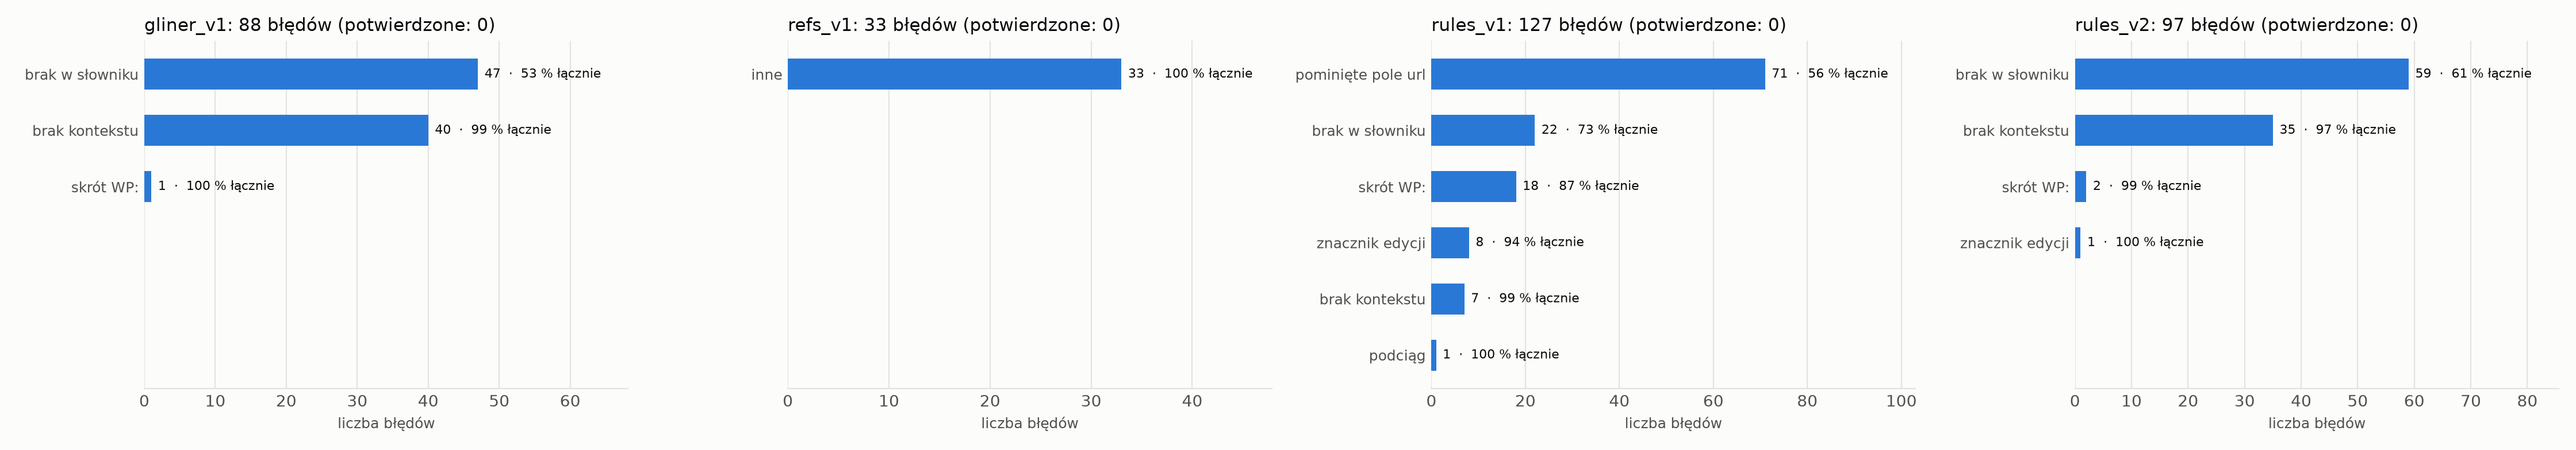
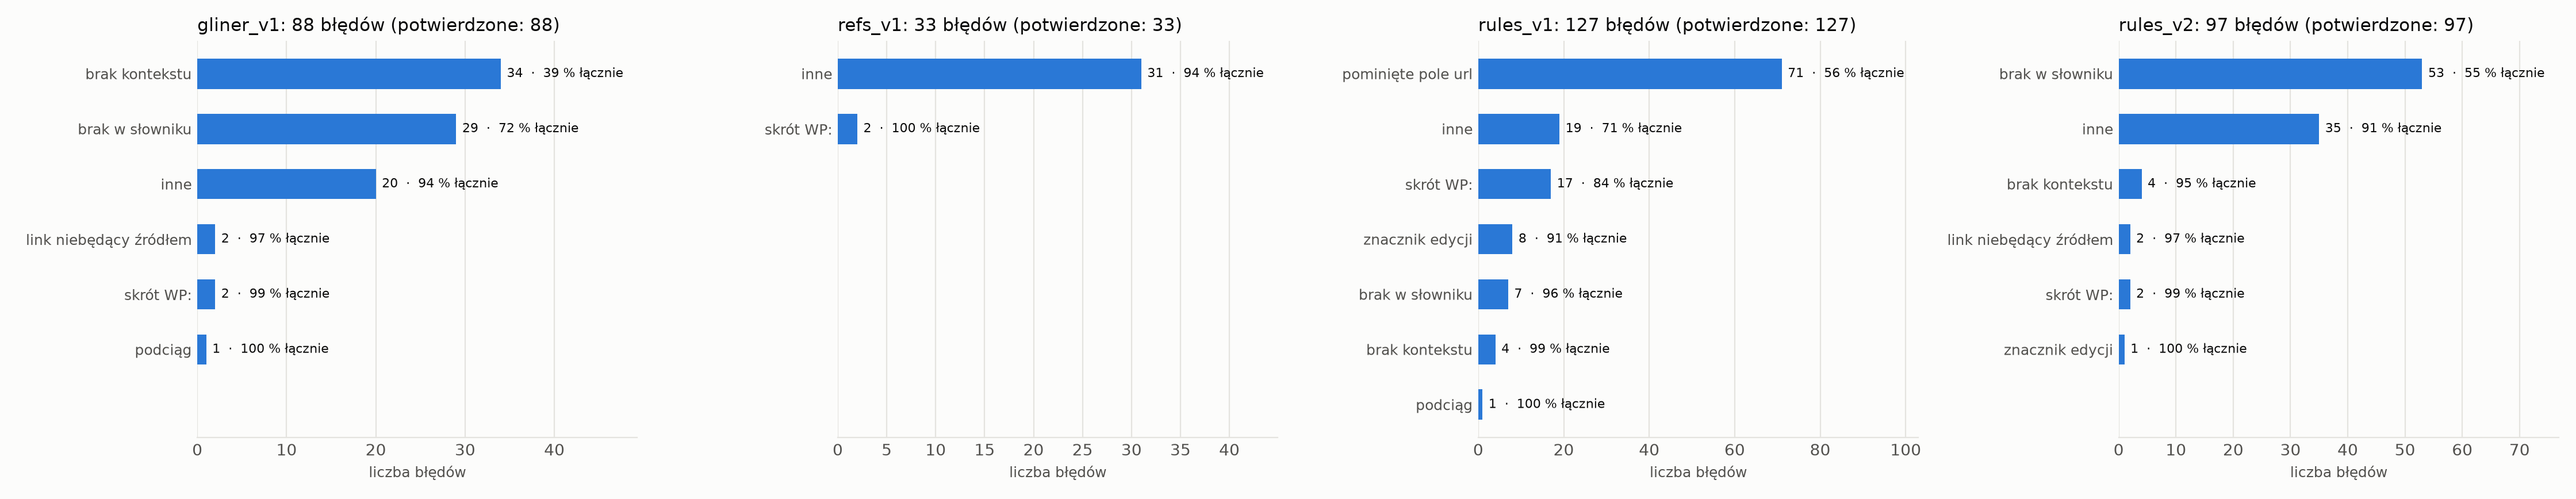
Runs the one-time stance_v1 test and the confirmatory analysis
- stance_v1 on the test half (frozen at 7ad9409): F1 challenges 0.33, kappa 0.24;
  validity gate not passed, so H1-A cannot be measured with this instrument.
- H1-B: consensus indicator J = 0.20 on the pooled audit, descriptive only;
  alternative indicator valid (J = 0.59), no increase (OR 0.988, p = 0.85).
- H2: OR 1.47 per year, p = 0.006 (one-sided), still to be read with the domain review.
- Report tables, numbers and figures refreshed.

diff --git a/report/numbers.tex b/report/numbers.tex
@@ -157,33 +157,33 @@
 \newcommand{\resHoneADevKappa}{0{,}33}
 \newcommand{\resHoneADevMacroF}{0{,}45}
 \newcommand{\resHoneADevAccuracy}{0{,}83}
-\newcommand{\resHoneATestPosts}{\resPending}
-\newcommand{\resHoneATestChallengesF}{\resPending}
-\newcommand{\resHoneATestKappa}{\resPending}
-\newcommand{\resHoneATestMacroF}{\resPending}
-\newcommand{\resHoneATestAccuracy}{\resPending}
-\newcommand{\resHoneAGate}{\resPending}
-\newcommand{\resHoneAThresholds}{\resPending}
-\newcommand{\resHoneAChallengesOr}{\resPending}
-\newcommand{\resHoneAChallengesP}{\resPending}
-\newcommand{\resHoneASupportsOr}{\resPending}
-\newcommand{\resHoneASupportsP}{\resPending}
-\newcommand{\resHoneAChallengesTwentyOr}{\resPending}
-\newcommand{\resHoneAChallengesTwentyP}{\resPending}
-\newcommand{\resHoneASupportsTwentyOr}{\resPending}
-\newcommand{\resHoneASupportsTwentyP}{\resPending}
-\newcommand{\resHoneAChallengesScienceOr}{\resPending}
-\newcommand{\resHoneAChallengesScienceP}{\resPending}
-\newcommand{\resHoneASupportsScienceOr}{\resPending}
-\newcommand{\resHoneASupportsScienceP}{\resPending}
-\newcommand{\resHoneAChallengesConspiracyOr}{\resPending}
-\newcommand{\resHoneAChallengesConspiracyP}{\resPending}
-\newcommand{\resHoneASupportsConspiracyOr}{\resPending}
-\newcommand{\resHoneASupportsConspiracyP}{\resPending}
-\newcommand{\resHoneARelevantPosts}{\resPending}
-\newcommand{\resHoneAChallengesShareEarly}{\resPending}
-\newcommand{\resHoneAChallengesShareLate}{\resPending}
-\newcommand{\resHoneAStatus}{czeka na kodowanie stanowiska}
+\newcommand{\resHoneATestPosts}{216}
+\newcommand{\resHoneATestChallengesF}{0{,}33}
+\newcommand{\resHoneATestKappa}{0{,}24}
+\newcommand{\resHoneATestMacroF}{0{,}44}
+\newcommand{\resHoneATestAccuracy}{0{,}80}
+\newcommand{\resHoneAGate}{niespełniony}
+\newcommand{\resHoneAThresholds}{relevance 0{,}30, supports 0{,}30, challenges 0{,}70}
+\newcommand{\resHoneAChallengesOr}{\textit{nie testowano}}
+\newcommand{\resHoneAChallengesP}{\textit{nie testowano}}
+\newcommand{\resHoneASupportsOr}{\textit{nie testowano}}
+\newcommand{\resHoneASupportsP}{\textit{nie testowano}}
+\newcommand{\resHoneAChallengesTwentyOr}{\textit{nie testowano}}
+\newcommand{\resHoneAChallengesTwentyP}{\textit{nie testowano}}
+\newcommand{\resHoneASupportsTwentyOr}{\textit{nie testowano}}
+\newcommand{\resHoneASupportsTwentyP}{\textit{nie testowano}}
+\newcommand{\resHoneAChallengesScienceOr}{\textit{nie testowano}}
+\newcommand{\resHoneAChallengesScienceP}{\textit{nie testowano}}
+\newcommand{\resHoneASupportsScienceOr}{\textit{nie testowano}}
+\newcommand{\resHoneASupportsScienceP}{\textit{nie testowano}}
+\newcommand{\resHoneAChallengesConspiracyOr}{\textit{nie testowano}}
+\newcommand{\resHoneAChallengesConspiracyP}{\textit{nie testowano}}
+\newcommand{\resHoneASupportsConspiracyOr}{\textit{nie testowano}}
+\newcommand{\resHoneASupportsConspiracyP}{\textit{nie testowano}}
+\newcommand{\resHoneARelevantPosts}{\textit{nie testowano}}
+\newcommand{\resHoneAChallengesShareEarly}{\textit{nie testowano}}
+\newcommand{\resHoneAChallengesShareLate}{\textit{nie testowano}}
+\newcommand{\resHoneAStatus}{warunek trafności niespełniony: H1-A niemierzalne instrumentem \kod{stance\_v1}}
 \newcommand{\resEnrichedPosts}{277}
 \newcommand{\resEnrichedTopic}{67}
 \newcommand{\resEnrichedScience}{150}
@@ -205,11 +205,11 @@
 \newcommand{\resPlanCDomainsAutoShare}{54\,\%}
 \newcommand{\resPlanCDomainsControls}{20}
 \newcommand{\resPlanCDomainsRulePrecision}{19/20}
-\newcommand{\resHoneATestChallengesPrecision}{\resPending}
-\newcommand{\resHoneATestChallengesRecall}{\resPending}
-\newcommand{\resHoneATestAllRowsChallengesF}{\resPending}
-\newcommand{\resHoneATestAllRowsKappa}{\resPending}
-\newcommand{\resHoneAReviewedPosts}{\resPending}
+\newcommand{\resHoneATestChallengesPrecision}{0{,}80}
+\newcommand{\resHoneATestChallengesRecall}{0{,}21}
+\newcommand{\resHoneATestAllRowsChallengesF}{0{,}33}
+\newcommand{\resHoneATestAllRowsKappa}{0{,}27}
+\newcommand{\resHoneAReviewedPosts}{171}
 \newcommand{\resAuditConsensusJ}{0{,}20 [$-$0{,}01; 0{,}55]}
 \newcommand{\resAuditConsensusSensitivity}{0{,}35}
 \newcommand{\resAuditConsensusSpecificity}{0{,}85}

diff --git a/report/tables/preprint_h1.tex b/report/tables/preprint_h1.tex
@@ -2,8 +2,8 @@
 \toprule
 Wskaźnik (oczekiwany kierunek) & główna (2005--2018) & 2005--2020 & tylko r/science & tylko r/conspiracy \\
 \midrule
-H1-A: podważanie konsensusu (wzrost) & \resPending & \resPending & \resPending & \resPending \\
-H1-A: wsparcie konsensusu (spadek) & \resPending & \resPending & \resPending & \resPending \\
+H1-A: podważanie konsensusu (wzrost) & \textit{nie testowano} & \textit{nie testowano} & \textit{nie testowano} & \textit{nie testowano} \\
+H1-A: wsparcie konsensusu (spadek) & \textit{nie testowano} & \textit{nie testowano} & \textit{nie testowano} & \textit{nie testowano} \\
 \midrule
 H1-B: źródła konsensusu (spadek) & 1{,}03 [0{,}99; 1{,}06]\newline{\scriptsize $p$ = 0{,}928} & 1{,}04 [1{,}01; 1{,}08]\newline{\scriptsize $p$ = 0{,}994} & 1{,}03 [0{,}99; 1{,}07]\newline{\scriptsize $p$ = 0{,}949} & 1{,}01 [0{,}90; 1{,}14]\newline{\scriptsize $p$ = 0{,}577} \\
 H1-B: źródła alternatywne (wzrost) & 0{,}99 [0{,}97; 1{,}01]\newline{\scriptsize $p$ = 0{,}853} & 0{,}99 [0{,}98; 1{,}01]\newline{\scriptsize $p$ = 0{,}759} & 0{,}99 [0{,}96; 1{,}02]\newline{\scriptsize $p$ = 0{,}829} & 1{,}00 [0{,}95; 1{,}04]\newline{\scriptsize $p$ = 0{,}592} \\

diff --git a/report/tables/preprint_stance.tex b/report/tables/preprint_stance.tex
@@ -7,7 +7,7 @@ odniesienie: reguła R14 (kontrola na ślepo) & 11 & -- & -- & zachowane 11/11 \
 odniesienie: podpowiedzi AI sprawdzone przez ludzi & 335 & -- & -- & poprawiono 0\,\% \\
 \midrule
 \kod{stance\_v1}, \kod{dev} (strojenie) & 218 & 0{,}25 & 0{,}33 & macro-F1 0{,}45 \\
-\kod{stance\_v1}, test (jeden przebieg) & \resPending & \resPending & \resPending & warunek trafności: \resPending; precyzja \resPending, czułość \resPending \\
-test, wszystkie wiersze (wrażliwość) & \resPending & \resPending & \resPending & z etykietami z reguł \\
+\kod{stance\_v1}, test (jeden przebieg) & 171 & 0{,}33 & 0{,}24 & warunek trafności: niespełniony; precyzja 0{,}80, czułość 0{,}21 \\
+test, wszystkie wiersze (wrażliwość) & 216 & 0{,}33 & 0{,}27 & z etykietami z reguł \\
 \bottomrule
 \end{tabular}

diff --git a/report/tables/errors.tex b/report/tables/errors.tex
@@ -2,9 +2,9 @@
 \toprule
 Instrument & Błędy & Potwierdzone & Najczęstsze proponowane przyczyny \\
 \midrule
-v1 & 127 & 0 & pominięte pole url (71), brak w słowniku (22), skrót WP: (18) \\
-GLiNER & 88 & 0 & brak w słowniku (47), brak kontekstu (40), skrót WP: (1) \\
-reguły v2 & 97 & 0 & brak w słowniku (59), brak kontekstu (35), skrót WP: (2) \\
-I4 & 33 & 0 & inne (33) \\
+v1 & 127 & 127 & pominięte pole url (71), inne (19), skrót WP: (17) \\
+GLiNER & 88 & 88 & brak kontekstu (34), brak w słowniku (29), inne (20) \\
+reguły v2 & 97 & 97 & brak w słowniku (53), inne (35), brak kontekstu (4) \\
+I4 & 33 & 33 & inne (31), skrót WP: (2) \\
 \bottomrule
 \end{tabular}
